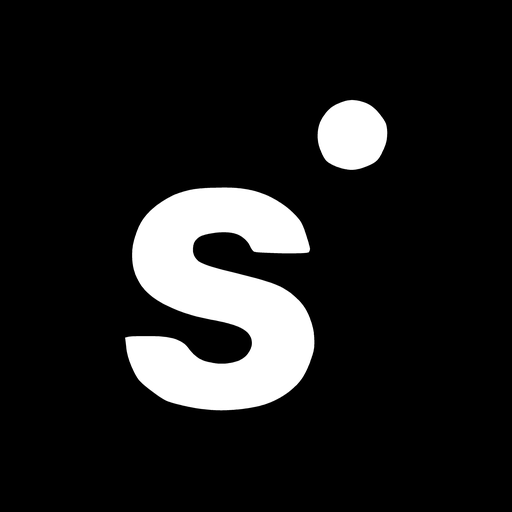
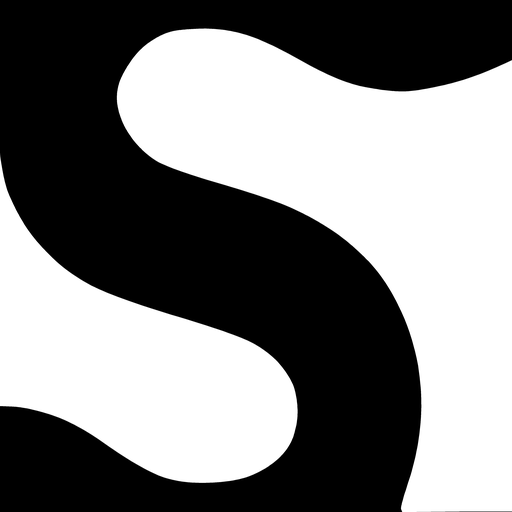
fix: sygnet i favicony z drugiego "s" logotypu, wtopionego w tło
Sygnet "s" z kropką zastąpiony drugim "s" z logotypu: łuki wychodzą
poza krawędź kafla, jak w logo przechodzą w "y" i "m". Przycięcie SVG
na <g>, żeby clip-path nie liczył się w układzie przekształconej ścieżki.

diff --git a/CHANGELOG.md b/CHANGELOG.md
@@ -12,7 +12,7 @@ Format oparty na [Keep a Changelog](https://keepachangelog.com/pl/1.1.0/).
 - `composer.json` paczki `simplysmart/mainboard` (PHP ^8.4, bez zależności, autoload PSR-4: `Simplysmart\Mainboard\` → `src/`), `.gitignore` wykluczający pliki środowiska lokalnego (`.env*`, cały katalog `infrastructure/` z konfiguracją vhosta, PHP-FPM i SSL, katalogi IDE), `.editorconfig` i `.gitattributes`.
 - Skille AI w jednym miejscu, `.claude/skills/`, wersjonowane w repozytorium; `.gitignore` pomija tylko lokalne pliki sesji AI: `.claude/settings.local.json` i `CLAUDE.local.md`.
 - Wpis w `### Changed` oznaczony `**BREAKING**` (lub `BREAKING:`) na początku linii wymusza podbicie MAJOR w `tools/version-release.php`.
-- Identyfikacja marki w `brand/`: logo (SVG i PNG na jasne i ciemne tło), sygnet „s” z kropką, kolory i zasady użycia w `brand/README.md`; katalog wykluczony z paczek (`export-ignore`).
+- Identyfikacja marki w `brand/`: logo (SVG i PNG na jasne i ciemne tło), sygnet (drugie „s” z logotypu, wtopione w tło), kolory i zasady użycia w `brand/README.md`; katalog wykluczony z paczek (`export-ignore`).
 - Favicony z sygnetu (`favicon.svg` dopasowujący się do ciemnego motywu przeglądarki, `favicon.ico`, `apple-touch-icon.png`) i `site.webmanifest` z ikonami 192 i 512 px.
 - Struktura assetów w `public/assets/` (CSS, grafiki, fonty) i style oparte na tokenach marki w `tokens.css`, z motywem ciemnym.
 - Strona startowa pokazuje logo i korzysta ze stylów marki; adresy assetów zawierają wersję z pliku `VERSION`, więc po wydaniu przeglądarki pobierają nowe pliki.

diff --git a/brand/README.md b/brand/README.md
@@ -10,11 +10,18 @@ kopie w `public/` — zob. [docs/struktura.md](../docs/struktura.md#assety).
 | `logo/simplysmart.svg` | wzorzec logotypu (wektor, czarny). Z niego powstają wszystkie pozostałe wersje |
 | `logo/png/simplysmart-on-light-{800,1600,2400}.png` | logo czarne, na jasne tło: maile, dokumenty, prezentacje |
 | `logo/png/simplysmart-on-dark-{800,1600,2400}.png` | logo białe, na ciemne tło |
-| `icon/simplysmart-mark.svg` | sygnet: „s” z kropką z logotypu, `fill="currentColor"` |
+| `icon/simplysmart-mark.svg` | sygnet: drugie „s” z logotypu w kwadratowym kadrze, `fill="currentColor"` |
 | `icon/simplysmart-icon.svg` | sygnet na czarnym zaokrąglonym kaflu — źródło faviconów |
 | `icon/simplysmart-icon-1024.png` | ikona 1024×1024 (sklepy z aplikacjami, avatary) |
 
 Nazwy `on-light` / `on-dark` mówią o **tle**, na którym logo stoi, nie o kolorze logo.
+
+## Sygnet
+
+Drugie „s” z logotypu (`simply`**`s`**`mart`). W logo nie ma własnego konturu: dolny łuk wyrasta
+z „y”, górny przechodzi w „m”. Sygnet zachowuje tę cechę — oba łuki wychodzą poza krawędź kadru,
+więc na kaflu litera wtapia się w tło strony, a czarne części kafla same układają się w „S”.
+Kadr: prostokąt x 414,5–498,5, y 34–118 w układzie `logo/simplysmart.svg`.
 
 ## Kolory
 
